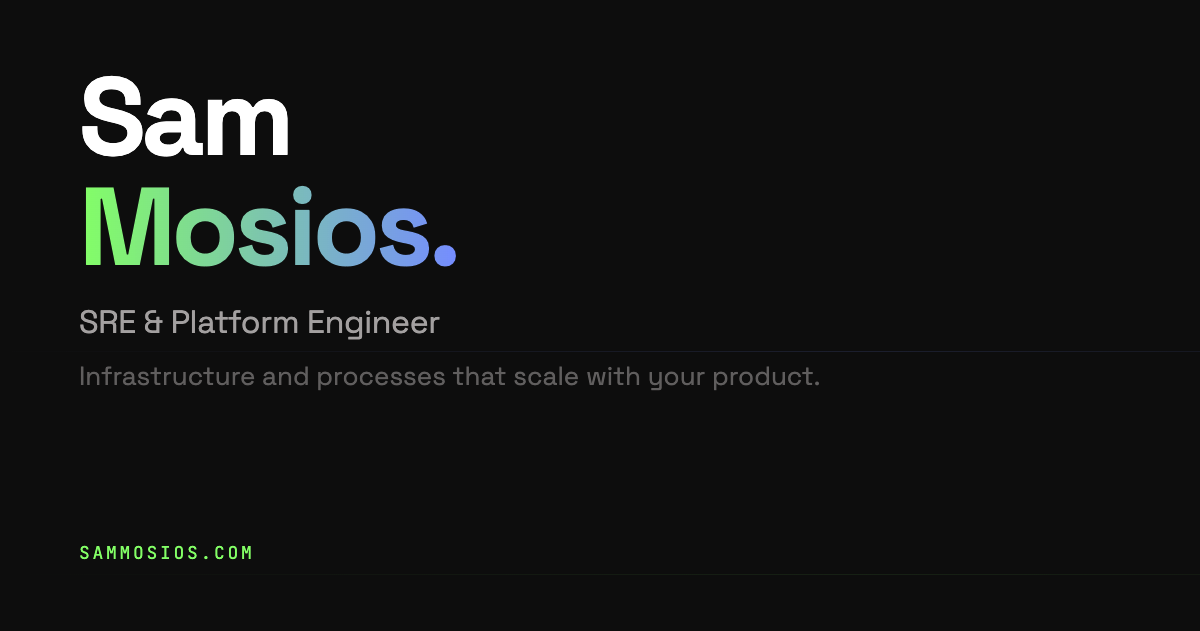
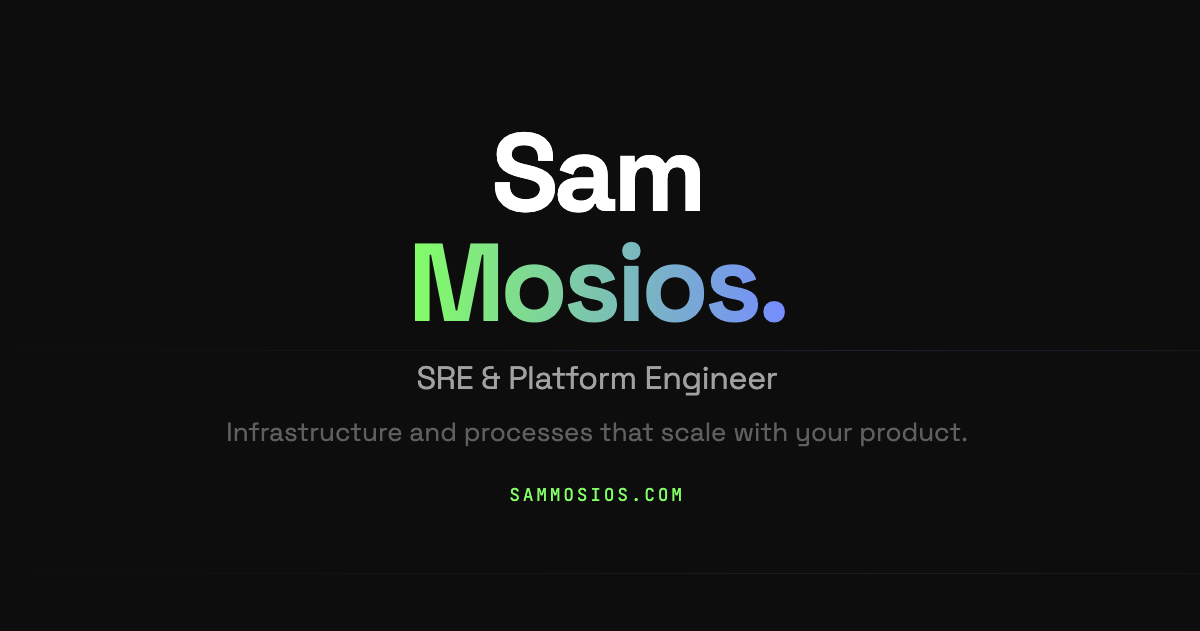
fix: minor visual bugs on mobile

diff --git a/src/components/TopNavBar.tsx b/src/components/TopNavBar.tsx
@@ -1,3 +1,4 @@
+import { useState } from 'react'
 import { NavLink } from 'react-router-dom'
 
 const navLinks = [
@@ -8,39 +9,76 @@ const navLinks = [
 ]
 
 export default function TopNavBar() {
+  const [open, setOpen] = useState(false)
+
   return (
-    <header className="fixed top-0 w-full z-50 flex justify-between items-center px-8 md:pl-24 py-4 bg-[#0e0e0e]/80 backdrop-blur-xl">
-      <NavLink to="/" className="text-xl font-bold tracking-tighter text-primary font-headline">
-        SAM MOSIOS
-      </NavLink>
-
-      <nav className="hidden md:flex items-center gap-8">
-        {navLinks.map((link) => (
-          <NavLink
-            key={link.label}
-            to={link.to}
-            end={link.to === '/'}
-            className={({ isActive }) =>
-              `font-label text-sm uppercase transition-colors ${
-                isActive
-                  ? 'text-primary border-b border-primary/30 pb-1'
-                  : 'text-gray-400 hover:text-primary'
-              }`
-            }
-          >
-            {link.label}
-          </NavLink>
-        ))}
-      </nav>
-
-      <div className="flex items-center gap-4">
-<NavLink
-          to="/consult"
-          className="bg-primary text-on-primary px-4 py-1.5 font-label text-xs font-bold rounded hover:brightness-110 active:scale-95 transition-all"
-        >
-          GET IN TOUCH
+    <header className="fixed top-0 w-full z-50 bg-[#0e0e0e]/80 backdrop-blur-xl">
+      <div className="flex justify-between items-center px-8 md:pl-24 py-4">
+        <NavLink to="/" className="text-xl font-bold tracking-tighter text-primary font-headline">
+          SAM MOSIOS
         </NavLink>
+
+        {/* Desktop nav */}
+        <nav className="hidden md:flex items-center gap-8">
+          {navLinks.map((link) => (
+            <NavLink
+              key={link.label}
+              to={link.to}
+              end={link.to === '/'}
+              className={({ isActive }) =>
+                `font-label text-sm uppercase transition-colors ${
+                  isActive
+                    ? 'text-primary border-b border-primary/30 pb-1'
+                    : 'text-gray-400 hover:text-primary'
+                }`
+              }
+            >
+              {link.label}
+            </NavLink>
+          ))}
+        </nav>
+
+        <div className="flex items-center gap-4">
+          <NavLink
+            to="/consult"
+            className="bg-primary text-on-primary px-4 py-1.5 font-label text-xs font-bold rounded hover:brightness-110 active:scale-95 transition-all"
+          >
+            GET IN TOUCH
+          </NavLink>
+
+          {/* Hamburger — mobile only */}
+          <button
+            className="md:hidden flex flex-col gap-1.5 p-1"
+            onClick={() => setOpen((v) => !v)}
+            aria-label="Toggle menu"
+          >
+            <span className={`block w-5 h-0.5 bg-gray-400 transition-all duration-300 ${open ? 'rotate-45 translate-y-2' : ''}`} />
+            <span className={`block w-5 h-0.5 bg-gray-400 transition-all duration-300 ${open ? 'opacity-0' : ''}`} />
+            <span className={`block w-5 h-0.5 bg-gray-400 transition-all duration-300 ${open ? '-rotate-45 -translate-y-2' : ''}`} />
+          </button>
+        </div>
       </div>
+
+      {/* Mobile menu */}
+      {open && (
+        <nav className="md:hidden border-t border-white/5 bg-[#0e0e0e] px-8 py-4 flex flex-col gap-4">
+          {navLinks.map((link) => (
+            <NavLink
+              key={link.label}
+              to={link.to}
+              end={link.to === '/'}
+              onClick={() => setOpen(false)}
+              className={({ isActive }) =>
+                `font-label text-sm uppercase transition-colors ${
+                  isActive ? 'text-primary' : 'text-gray-400 hover:text-primary'
+                }`
+              }
+            >
+              {link.label}
+            </NavLink>
+          ))}
+        </nav>
+      )}
     </header>
   )
 }

diff --git a/src/components/Terminal.tsx b/src/components/Terminal.tsx
@@ -58,6 +58,12 @@ export default function Terminal() {
     if (el) el.scrollTop = el.scrollHeight
   }, [lines, booted])
 
+  // Focus input after boot, but only on non-touch devices
+  useEffect(() => {
+    if (booted && !isTouchDevice()) inputRef.current?.focus()
+  }, [booted])
+
+  const isTouchDevice = () => window.matchMedia('(pointer: coarse)').matches
   const focusInput = useCallback(() => inputRef.current?.focus(), [])
 
   const submit = useCallback(() => {
@@ -159,7 +165,6 @@ export default function Terminal() {
               onChange={(e) => setInput(e.target.value)}
               onKeyDown={handleKeyDown}
               aria-label="Terminal input"
-              autoFocus
               spellCheck={false}
               autoComplete="off"
               autoCorrect="off"

diff --git a/src/components/HeroSection.tsx b/src/components/HeroSection.tsx
@@ -6,7 +6,7 @@ export default function HeroSection() {
     <section className="relative pt-32 pb-24 px-8 md:px-16 flex flex-col md:flex-row items-center gap-12">
       {/* Background fiber optic lines */}
       <div className="absolute inset-0 pointer-events-none">
-        <div className="fiber-optic-line absolute top-3/4 left-0 w-full md:w-3/5 motion-safe:animate-pulse" />
+        <div className="fiber-optic-line absolute top-3/4 left-0 hidden md:block md:w-3/5 motion-safe:animate-pulse" />
       </div>
 
       {/* Left: copy */}

diff --git a/public/og-card.html b/public/og-card.html
@@ -18,7 +18,9 @@
         overflow: hidden;
         display: flex;
         flex-direction: column;
-        justify-content: space-between;
+        justify-content: center;
+        align-items: center;
+        text-align: center;
         padding: 64px 80px;
       }
 
@@ -90,9 +92,7 @@
       }
 
       .bottom {
-        display: flex;
-        justify-content: space-between;
-        align-items: flex-end;
+        margin-top: 32px;
       }
 
       .tagline {
